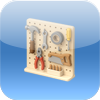
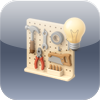
plant fallback, pegboard color

diff --git a/software/flask_app/templates/rooms/office_1136x640.html b/software/flask_app/templates/rooms/office_1136x640.html
@@ -12,9 +12,9 @@
   <td>{{ api_call_buttons.office_fans_toggle() }}</td>
 </tr>
 <tr>
+  <td>{{ api_call_buttons.inside_soil_moisture(plants) }}</td>
   <td>{{ temp_tile_buttons.eloise_temp(eloise_temp) }}</td>
   <td>{{ modal_buttons.three_d_printer_toggle() }}</td>
-  <td>{{ api_call_buttons.downstairs_toggle() }}</td>
   <td>{{ api_call_buttons.office_lights_off() }}</td>
 </tr>
 {% endblock %}

diff --git a/software/flask_app/helpers.py b/software/flask_app/helpers.py
@@ -80,9 +80,10 @@ def calculate_plants(ha_states):
     entity_to_state = {entity: ha_states.get(entity) for entity in plant_entities}
     print(entity_to_state)
     for entity, state in entity_to_state.items():
+        # Fallback, if anything else fails
+        entity_to_state[entity] = {"color": "black"}
         if state is None:
             logger.info(f"HA state is None! {entity_to_state}")
-            entity_to_state[entity] = None
             return entity_to_state
         else:
             int_value = int(float(state.get("state", 0)))
